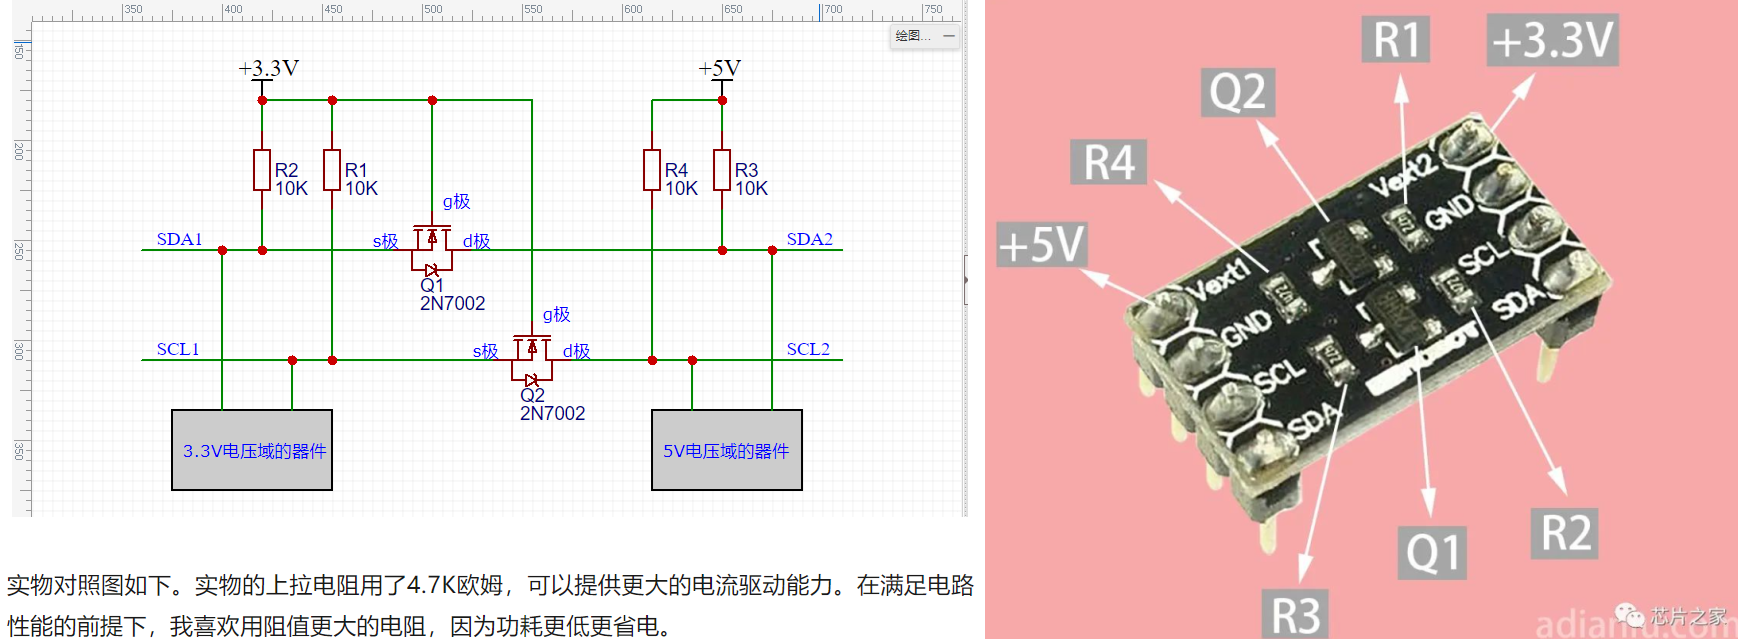
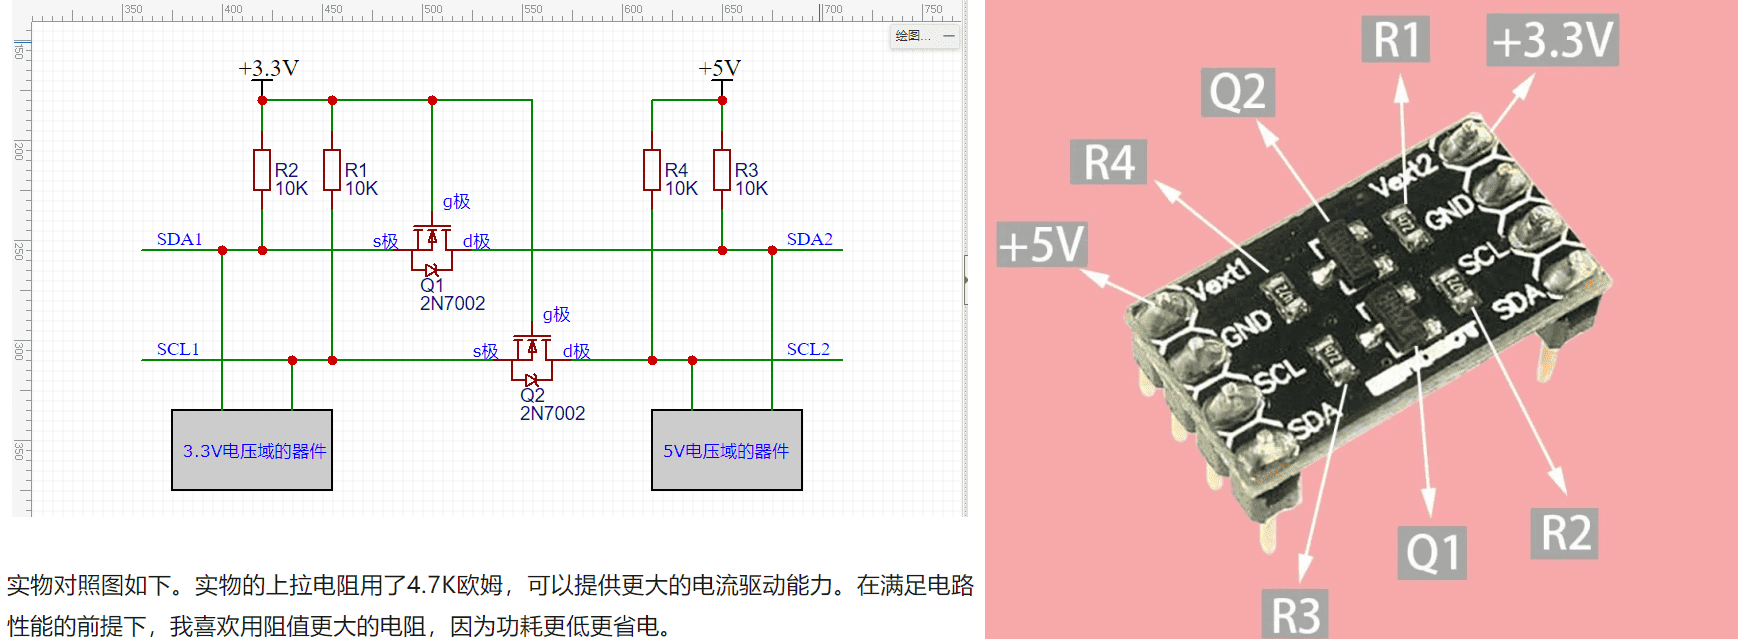
优化搜索

Changed region(s): [[0.87, 0.9515, 1.0, 1.0]]

diff --git a/themes/pure/source/js/insight.js b/themes/pure/source/js/insight.js
@@ -10,20 +10,47 @@
     $main.parent().remove('.ins-search');
     $('body').append($main);
 
+    // 需要从搜索结果中排除的页面路径前缀（菜单已隐藏的页面、归档页等）
+    var EXCLUDED_PAGE_PATHS = ['books/', 'categories/', 'tags/', 'repository/', 'about/'];
+
+    function escapeHtml (text) {
+        if (!text) return '';
+        return String(text)
+            .replace(/&/g, '&amp;')
+            .replace(/</g, '&lt;')
+            .replace(/>/g, '&gt;')
+            .replace(/"/g, '&quot;')
+            .replace(/'/g, '&#039;');
+    }
+
+    // 对文本中的关键词进行高亮（先转义HTML再高亮，防止XSS）
+    function highlight (text, keywords) {
+        if (!text) return '';
+        var escaped = escapeHtml(text);
+        var keywordArray = parseKeywords(keywords);
+        keywordArray.forEach(function (keyword) {
+            if (!keyword) return;
+            var escapedKeyword = escapeHtml(keyword).replace(/[.*+?^${}()|[\]\\]/g, '\\$&');
+            var regex = new RegExp('(' + escapedKeyword + ')', 'gi');
+            escaped = escaped.replace(regex, '<mark class="ins-highlight">$1</mark>');
+        });
+        return escaped;
+    }
+
     function section (title) {
         return $('<section>').addClass('ins-section')
             .append($('<header>').addClass('ins-section-header').text(title));
     }
 
-    function searchItem (icon, title, slug, preview, url) {
+    function searchItem (icon, title, slug, preview, url, keywords) {
         return $('<div>').addClass('ins-selectable').addClass('ins-search-item')
-            .append($('<header>').append($('<i>').addClass('icon').addClass('icon-' + icon)).append(title != null && title != '' ? title : CONFIG.TRANSLATION['UNTITLED'])
+            .append($('<header>').append($('<i>').addClass('icon').addClass('icon-' + icon)).append(title != null && title != '' ? highlight(title, keywords) : CONFIG.TRANSLATION['UNTITLED'])
                 .append(slug ? $('<span>').addClass('ins-slug').text(slug) : null))
-            .append(preview ? $('<p>').addClass('ins-search-preview').text(preview) : null)
+            .append(preview ? $('<p>').addClass('ins-search-preview').html(highlight(preview, keywords)) : null)
             .attr('data-url', url);
     }
 
-    function sectionFactory (type, array) {
+    function sectionFactory (type, array, keywords) {
         var sectionTitle;
         var $searchItems;
         if (array.length === 0) return null;
@@ -33,13 +60,18 @@
             case 'PAGES':
                 $searchItems = array.map(function (item) {
                     // Use config.root instead of permalink to fix url issue
-                    return searchItem('file', item.title, null, item.text.slice(0, 150), CONFIG.ROOT_URL + item.path);
+                    return searchItem('file', item.title, null, item.text.slice(0, 150), CONFIG.ROOT_URL + item.path, keywords);
                 });
                 break;
             case 'CATEGORIES':
             case 'TAGS':
                 $searchItems = array.map(function (item) {
-                    return searchItem(type === 'CATEGORIES' ? 'folder' : 'tag', item.name, item.slug, null, item.permalink);
+                    // 用相对路径而非permalink（permalink含完整域名，本地访问会跳转线上）
+                    var typePath = type === 'CATEGORIES' ? 'categories' : 'tags';
+                    var url = CONFIG.ROOT_URL + typePath + '/' + item.slug + '/';
+                    // 括号里显示文章数量，而非重复的slug
+                    var countLabel = item.count ? String(item.count) : null;
+                    return searchItem(type === 'CATEGORIES' ? 'folder' : 'tag', item.name, countLabel, null, url, keywords);
                 });
                 break;
             default:
@@ -54,7 +86,11 @@
         entries.forEach(function (entry) {
             if (entry[key]) {
                 entry[key].forEach(function (value) {
-                    values[value.name] = value;
+                    if (!values[value.name]) {
+                        values[value.name] = value;
+                        values[value.name].count = 0;
+                    }
+                    values[value.name].count++;
                 });
             }
         });
@@ -149,25 +185,42 @@
         };
     }
 
+    // 判断页面是否应该被排除
+    function isExcludedPage (page) {
+        return EXCLUDED_PAGE_PATHS.some(function (prefix) {
+            return page.path && page.path.indexOf(prefix) === 0;
+        });
+    }
+
     function search (json, keywords) {
         var WEIGHTS = weightFactory(keywords);
         var FILTERS = filterFactory(keywords);
         var posts = json.posts;
-        var pages = json.pages;
+        // 过滤掉不需要的页面（书单、分类、标签、项目等归档/隐藏页）
+        var pages = json.pages.filter(function (page) {
+            return !isExcludedPage(page);
+        });
         var tags = extractToSet(json, 'tags');
         var categories = extractToSet(json, 'categories');
         return {
             posts: posts.filter(FILTERS.POST).sort(function (a, b) { return WEIGHTS.POST(b) - WEIGHTS.POST(a); }).slice(0, 5),
             pages: pages.filter(FILTERS.PAGE).sort(function (a, b) { return WEIGHTS.PAGE(b) - WEIGHTS.PAGE(a); }).slice(0, 5),
-            categories: categories.filter(FILTERS.CATEGORY).sort(function (a, b) { return WEIGHTS.CATEGORY(b) - WEIGHTS.CATEGORY(a); }).slice(0, 5),
-            tags: tags.filter(FILTERS.TAG).sort(function (a, b) { return WEIGHTS.TAG(b) - WEIGHTS.TAG(a); }).slice(0, 5)
+            categories: categories.filter(FILTERS.CATEGORY).sort(function (a, b) { return WEIGHTS.CATEGORY(b) - WEIGHTS.CATEGORY(a); }),
+            tags: tags.filter(FILTERS.TAG).sort(function (a, b) { return WEIGHTS.TAG(b) - WEIGHTS.TAG(a); })
         };
     }
 
-    function searchResultToDOM (searchResult) {
+    function searchResultToDOM (searchResult, keywords) {
         $container.empty();
+        var hasResult = false;
         for (var key in searchResult) {
-            $container.append(sectionFactory(key.toUpperCase(), searchResult[key]));
+            if (searchResult[key].length > 0) {
+                hasResult = true;
+                $container.append(sectionFactory(key.toUpperCase(), searchResult[key], keywords));
+            }
+        }
+        if (!hasResult && keywords && keywords.trim()) {
+            $container.append('<div class="ins-no-result">没有找到与 "' + escapeHtml(keywords) + '" 相关的内容</div>');
         }
     }
 
@@ -211,7 +264,7 @@
         }
         $input.on('input', function () {
             var keywords = $(this).val();
-            searchResultToDOM(search(json, keywords));
+            searchResultToDOM(search(json, keywords), keywords);
         });
         $input.trigger('input');
     });

diff --git a/themes/pure/source/css/style.css b/themes/pure/source/css/style.css
@@ -9723,3 +9723,75 @@ body.theme-black .marked-body a.doc-card {
   color: #1A1A1A;
   line-height: 1.6;
 }
+/* ===== 搜索功能优化 ===== */
+
+/* 关键词高亮 */
+.ins-highlight {
+  background: #fff3a0;
+  color: #1a1a1a;
+  padding: 0 2px;
+  border-radius: 2px;
+  font-weight: 600;
+}
+.ins-section .ins-search-item:hover .ins-highlight,
+.ins-section .ins-search-item.active .ins-highlight {
+  background: #ffd54f;
+  color: #1a1a1a;
+}
+
+/* 空结果提示 */
+.ins-no-result {
+  padding: 40px 20px;
+  text-align: center;
+  color: #9a9a9a;
+  font-size: 14px;
+  line-height: 1.6;
+}
+
+/* 弹窗容器优化：圆角+阴影 */
+.ins-search-container {
+  border-radius: 8px;
+  overflow: hidden;
+  box-shadow: 0 8px 32px rgba(0, 0, 0, 0.18);
+}
+
+/* 搜索输入框优化 */
+.ins-search-input {
+  font-weight: 400;
+  padding: 14px 40px 14px 20px;
+}
+
+/* 搜索结果区域优化 */
+.ins-section-container {
+  background: #fff;
+}
+.ins-section .ins-section-header {
+  font-size: 12px;
+  font-weight: 600;
+  letter-spacing: 0.5px;
+  padding: 10px 16px 6px;
+  border-bottom: none;
+  color: #b0b0b0;
+  text-transform: uppercase;
+}
+.ins-section .ins-section-header,
+.ins-section .ins-search-item {
+  padding: 10px 16px;
+}
+.ins-section .ins-search-item .ins-search-preview {
+  height: 18px;
+  font-size: 12px;
+  line-height: 18px;
+  margin: 4px 0 0 24px;
+  color: #a0a0a0;
+}
+.ins-section .ins-search-item header .icon {
+  margin-right: 10px;
+  font-size: 14px;
+  color: #c0c0c0;
+}
+.ins-section .ins-search-item:hover header .icon,
+.ins-section .ins-search-item.active header .icon {
+  color: #fff;
+  opacity: 0.8;
+}
